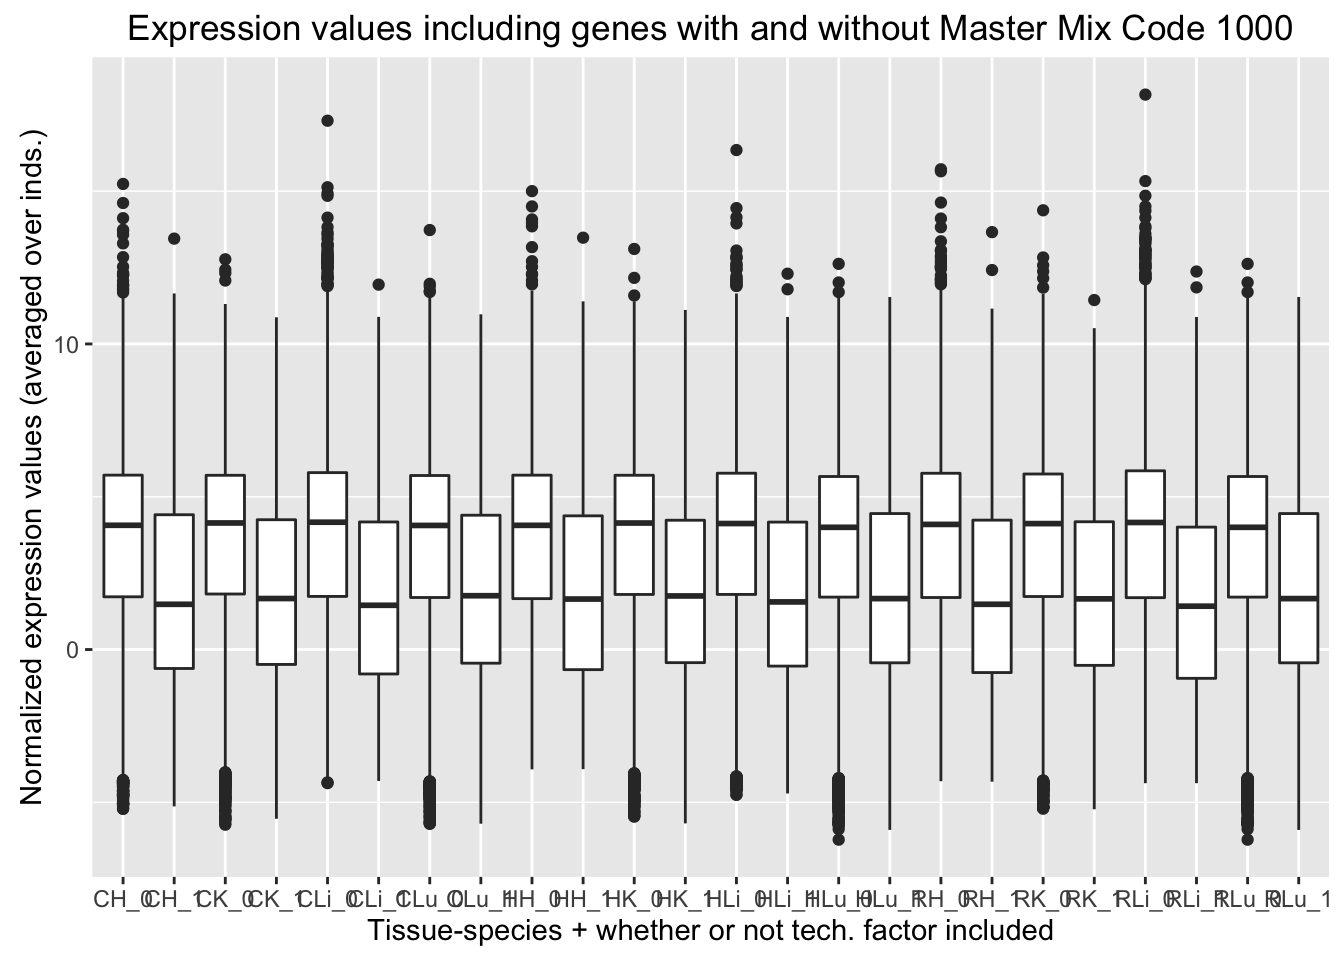
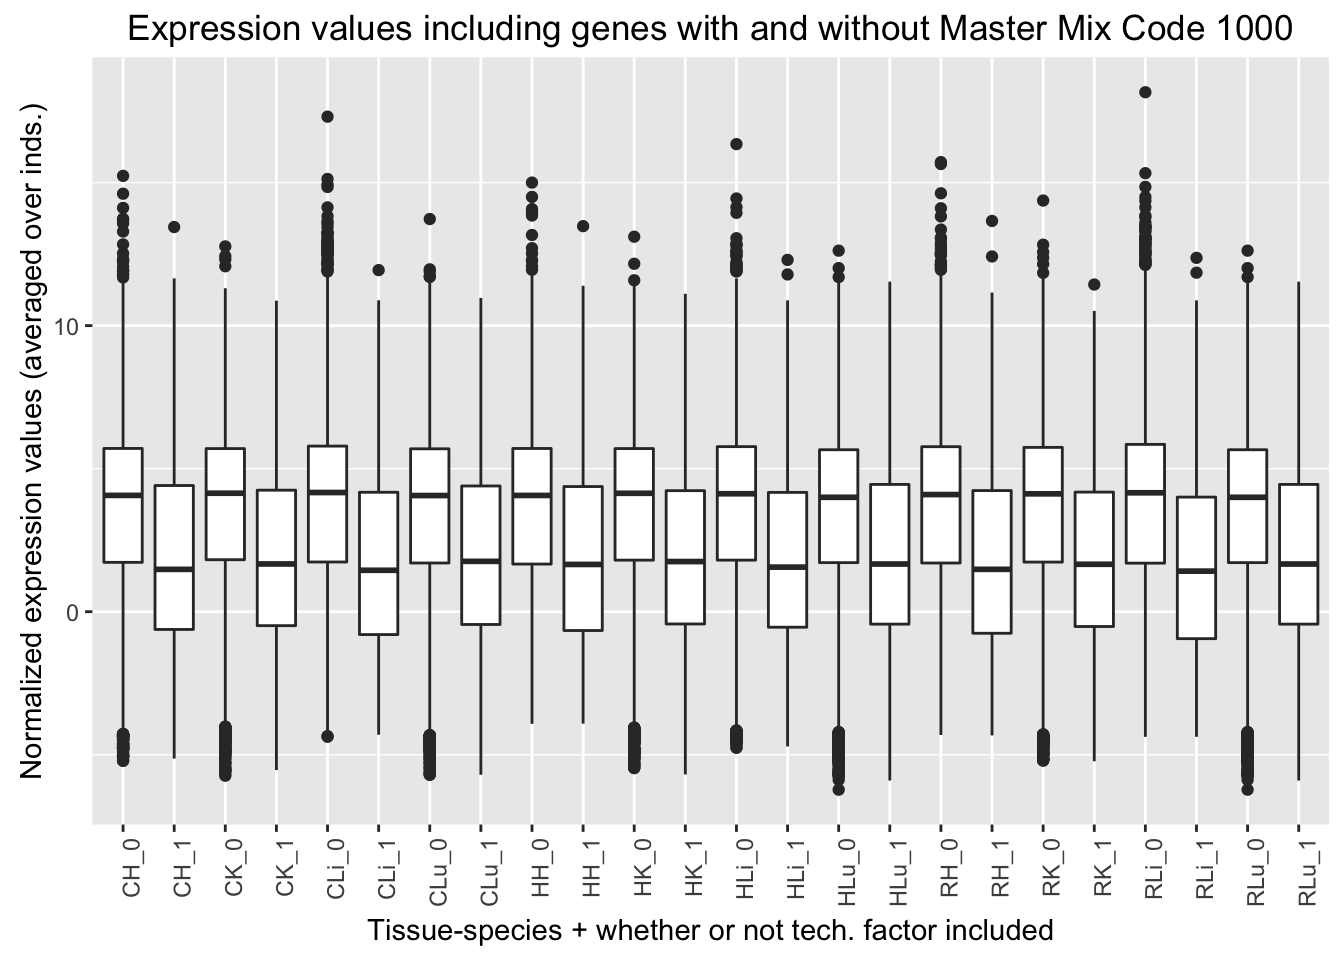
Change plots on follow up to best set

diff --git a/analysis/Follow_up_best_set_tech_factors.html b/analysis/Follow_up_best_set_tech_factors.html
@@ -194,7 +194,11 @@ $(document).ready(function () {
 <li><p>Percentage overlapping a junction (13th technical factor). Note: this was highest in reads mapped in livers than all of the other tissues. It does not appear to be confounded with species.</p></li>
 <li><p>Reads mapped on orthologous exons (15th technical factor). Note: this was higher in liver and lung samples than heart and kidney samples. It does not appear to be confounded with species.</p></li>
 </ul>
-<p>We want to see the distribution of expression values for the genes in which the best set contains one of the technical variables or not. If the expression values for the genes in which the best set contains one of the technical variables are randomly distributed, then that is good and we probably won’t include it in the final model (used to determine DE genes). If the expression values for the genes in which the best set contains one of the technical variables are not randomly distributed, then we will consider including it in the final model when testing for DE genes.</p>
+<p>We have found confounders in the design (e.g. confounders with tissue and/or species). Now, we are looking to see if these confounders in the design are confounded with expression levels.</p>
+</div>
+<div id="exploratory-analysis" class="section level3">
+<h3>Exploratory Analysis</h3>
+<p>We want to see the distribution of expression values for the genes in which the best set contains one of the technical variables or not. Our original thought is that if the expression values for the genes in which the best set contains one of the technical variables are randomly distributed, then that is good and we probably won’t include it in the final model (used to determine DE genes). If the expression values for the genes in which the best set contains one of the technical variables are not randomly distributed, then we will consider including it in the final model when testing for DE genes.</p>
 <pre class="r"><code># Load libraries 
 
 library(&quot;gplots&quot;)</code></pre>
@@ -216,9 +220,6 @@ dim(t_Best_set_bio_tech_var)</code></pre>
 <pre class="r"><code># Load the data (expression counts data)
 
 gene_counts_with_gc_correction &lt;- read.delim(&quot;~/Reg_Evo_Primates/ashlar-trial/data/gc_cyclic_loess_random_var_gene_exp_counts&quot;)</code></pre>
-</div>
-<div id="exploratory-analysis" class="section level3">
-<h3>Exploratory Analysis</h3>
 <pre class="r"><code># Find average expression for each gene
 
 chimp_hearts &lt;- c(1, 5, 9, 13)
@@ -427,15 +428,15 @@ ggplot_avg_value_labels &lt;- cbind(ggplot_avg_value, labels_RNA_Extra, labels_M
 
 # Make the plots
 
-ggplot(ggplot_avg_value_labels, aes(factor(RNA_Extra_labels), Avg_Expression)) +  geom_boxplot() + ylab(&quot;Normalized expression values (averaged over inds.)&quot;) + labs(title = &quot;Expression values including genes with and without RNA Extraction Date 3-23-12&quot;) + xlab(&quot;Tissue-species + whether or not tech. factor included&quot;)</code></pre>
+ggplot(ggplot_avg_value_labels, aes(factor(RNA_Extra_labels), Avg_Expression)) +  geom_boxplot() + ylab(&quot;Normalized expression values (averaged over inds.)&quot;) + labs(title = &quot;Expression values including genes with and without RNA Extraction Date 3-23-12&quot;) + xlab(&quot;Tissue-species + whether or not tech. factor included&quot;)  + theme(axis.text.x = element_text(angle = 90, hjust = 1))</code></pre>
 <p><img src="Follow_up_best_set_tech_factors_files/figure-html/unnamed-chunk-1-1.png" width="672" /></p>
-<pre class="r"><code>ggplot(ggplot_avg_value_labels, aes(factor(Mix_labels), Avg_Expression)) +  geom_boxplot() + ylab(&quot;Normalized expression values (averaged over inds.)&quot;) + labs(title = &quot;Expression values including genes with and without Master Mix Code 1000&quot;)  + xlab(&quot;Tissue-species + whether or not tech. factor included&quot;)</code></pre>
+<pre class="r"><code>ggplot(ggplot_avg_value_labels, aes(factor(Mix_labels), Avg_Expression)) +  geom_boxplot() + ylab(&quot;Normalized expression values (averaged over inds.)&quot;) + labs(title = &quot;Expression values including genes with and without Master Mix Code 1000&quot;)  + xlab(&quot;Tissue-species + whether or not tech. factor included&quot;)  + theme(axis.text.x = element_text(angle = 90, hjust = 1))</code></pre>
 <p><img src="Follow_up_best_set_tech_factors_files/figure-html/unnamed-chunk-1-2.png" width="672" /></p>
-<pre class="r"><code>ggplot(ggplot_avg_value_labels, aes(factor(Perc_overlap_junct_labels), Avg_Expression)) +  geom_boxplot() + ylab(&quot;Normalized expression values (averaged over inds.)&quot;) + labs(title = &quot;Expression values including genes with and without Perc. overlapping junctions&quot;) + xlab(&quot;Tissue-species + whether or not tech. factor included&quot;)</code></pre>
+<pre class="r"><code>ggplot(ggplot_avg_value_labels, aes(factor(Perc_overlap_junct_labels), Avg_Expression)) +  geom_boxplot() + ylab(&quot;Normalized expression values (averaged over inds.)&quot;) + labs(title = &quot;Expression values including genes with and without Perc. overlapping junctions&quot;) + xlab(&quot;Tissue-species + whether or not tech. factor included&quot;)  + theme(axis.text.x = element_text(angle = 90, hjust = 1))</code></pre>
 <p><img src="Follow_up_best_set_tech_factors_files/figure-html/unnamed-chunk-1-3.png" width="672" /></p>
-<pre class="r"><code>ggplot(ggplot_avg_value_labels, aes(factor(Reads_mapped_orth_exon_labels), Avg_Expression)) +  geom_boxplot() + ylab(&quot;Normalized expression values (averaged over inds.)&quot;) + labs(title = &quot;Expression values including genes with and without Num. of reads mapped on orth. exons&quot;) + xlab(&quot;Tissue-species + whether or not tech. factor included&quot;)</code></pre>
+<pre class="r"><code>ggplot(ggplot_avg_value_labels, aes(factor(Reads_mapped_orth_exon_labels), Avg_Expression)) +  geom_boxplot() + ylab(&quot;Normalized expression values (averaged over inds.)&quot;) + labs(title = &quot;Expression values including genes with and without Num. of reads mapped on orth. exons&quot;) + xlab(&quot;Tissue-species + whether or not tech. factor included&quot;)  + theme(axis.text.x = element_text(angle = 90, hjust = 1))</code></pre>
 <p><img src="Follow_up_best_set_tech_factors_files/figure-html/unnamed-chunk-1-4.png" width="672" /></p>
-<pre class="r"><code>ggplot(ggplot_avg_value_labels, aes(factor(RIN_Score_labels), Avg_Expression)) +  geom_boxplot() + ylab(&quot;Normalized expression values (averaged over inds.)&quot;) + labs(title = &quot;Expression values including genes with and without RIN Score&quot;) + xlab(&quot;Tissue-species + whether or not tech. factor included&quot;)</code></pre>
+<pre class="r"><code>ggplot(ggplot_avg_value_labels, aes(factor(RIN_Score_labels), Avg_Expression)) +  geom_boxplot() + ylab(&quot;Normalized expression values (averaged over inds.)&quot;) + labs(title = &quot;Expression values including genes with and without RIN Score&quot;) + xlab(&quot;Tissue-species + whether or not tech. factor included&quot;) + theme(axis.text.x = element_text(angle = 90, hjust = 1))</code></pre>
 <p><img src="Follow_up_best_set_tech_factors_files/figure-html/unnamed-chunk-1-5.png" width="672" /></p>
 </div>
 
